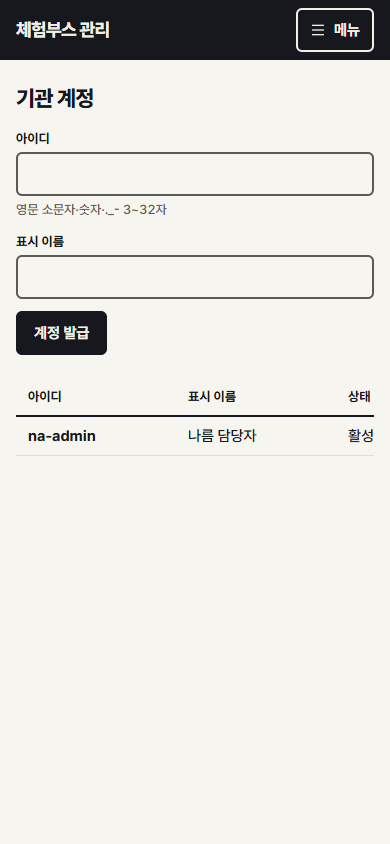
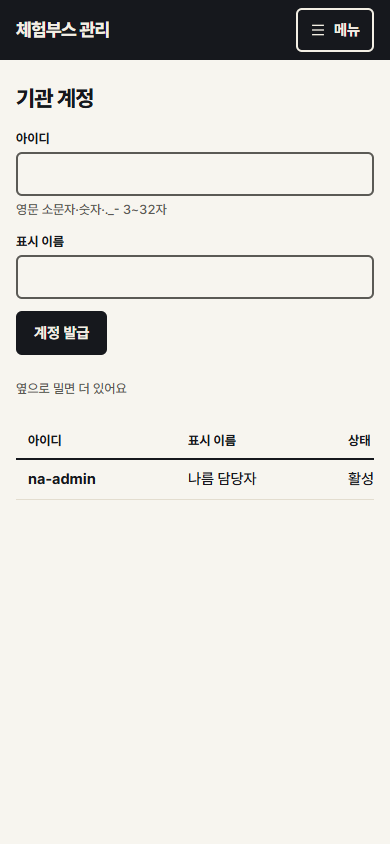
[docs] 2-C 최종 수정 기록: 390px 캡처, 확인 문서, 인계 문서 갱신

Changed region(s): [[0.0308, 0.4313, 0.9538, 0.5853], [0.2462, 0.4313, 0.3077, 0.4929]]

diff --git a/docs/superpowers/handoff/2026-10-30-handoff.md b/docs/superpowers/handoff/2026-10-30-handoff.md
@@ -4,9 +4,9 @@
 
 ## 1. 프로젝트 한눈에
 
-- 상위 폴더 `d:/projects/NR ChildDay/` (git 아님) 아래 두 저장소, 둘 다 **`update` 브랜치**에서 작업하고 GitHub에 push 완료. `main`은 손대지 않음(배포 전까지).
-  - 프론트 `NR_ChildDay2026` → `https://github.com/DJ-WALNUT/NR_ChildDay2026` (HEAD `dfb95d0`)
-  - 백엔드 `NR_ChildDay2026-BE` → `https://github.com/DJ-WALNUT/NR_ChildDay2026-BE` (HEAD `48db3ae`)
+- 상위 폴더 `d:/projects/NR ChildDay/` (git 아님) 아래 두 저장소, 둘 다 **`update` 브랜치**에서 작업한다. 2-C 커밋은 **push 안 됨**(로컬이 `origin/update` 보다 앞서 있음). `main`은 손대지 않음(배포 전까지).
+  - 프론트 `NR_ChildDay2026` → `https://github.com/DJ-WALNUT/NR_ChildDay2026` (HEAD 는 이 문서를 고친 `[docs]` 커밋이고 바로 앞 수정 커밋이 `ea4a378`)
+  - 백엔드 `NR_ChildDay2026-BE` → `https://github.com/DJ-WALNUT/NR_ChildDay2026-BE` (HEAD `45f559f`)
 - 목표: 인증 없이 모든 데이터가 공개되던 체험부스 예약 시스템을 **기관(테넌트)별**로 나누고, 화면을 "현장 입장권" 디자인으로 전부 새로 만든다. 참고 구현은 `d:/projects/walnutphoto`.
 - 단계: **1단계 백엔드 ✅ → 2-A 백엔드 추가분 ✅ → 2-B 방문객·현장 링크 화면 ✅ → 2-C 관리자 화면 ✅(구현·실동작 확인 완료, `docs/verification/2c/README.md`) → 1·2단계 함께 배포 ⏳**(새 API는 기존 프론트와 호환되지 않음).
 
@@ -43,25 +43,25 @@
 - `scripts/migrate_legacy.py`: 로컬 사본 기준 nareum 4/34/1736, gmyouth 1/37/3929, 버림 1/2/4 일치 확인. 36번 부스 시간당 타임 10→6 조정. 5자리 식별번호 11건 그대로 이관.
 - 2-A: 로고 업로드·공개 제공(`/api/public/assets/<sha256>.<ext>`, 1년 캐시, CSP sandbox), 행사 안내 문구, 행사 삭제 시 로고 정리.
 - 개발용 시드: `python scripts/seed_demo.py --out <DATA_DIR>/app.db`.
-- 테스트: `python -m pytest -q` → **194 passed**.
+- 테스트: `python -m pytest -q` → **216 passed**.
 
 ### 2-B 프론트 (`NR_ChildDay2026`)
 - TS 재구성, 디자인 토큰(`src/index.css`, 크기·둥글기 단계 배타적), Pretendard 동적 서브셋(`public/fonts/pretendard.css`), UI 부품(`src/ui/`), API 클라이언트(`src/api/`), 정규화·슬롯·입장권 보관(`src/lib/`), 엑셀(exceljs, 지연 로딩)·QR.
 - 방문객: `/:slug`, `/:slug/reserve/:id`, `/:slug/check/:id`, 기존 QR 리다이렉트, `/`.
 - 현장: `BoothConsole`(부스 링크·운영 단체 부스·**2-C 관리자 부스 상세에서 재사용**: `access="own"|"manage"`, `extraOwnActions`, `BoothSource` 어댑터), `/b/:token`, `/p/:token`, `/p/:token/booths/:id`, `StatsPanel`(2-C 행사 실적 탭에서 재사용).
 - 배포 설정: `public/.htaccess`(SPA 재작성 + Referrer-Policy no-referrer + 캐시), `.env.production`(`VITE_API_BASE=https://child-api.team-cluster.kr`), `scripts/check-chunks.mjs`(방문객 첫 로딩 ≤400KB, 스태프 라이브러리 혼입 금지; 현재 약 353KB).
-- 명령: `npm test`(**184 passed**), `npm run typecheck`, `npm run lint`, `npm run build`.
+- 명령: `npm test`(**413 passed**), `npm run typecheck`, `npm run lint`, `npm run build`.
 
 ### 2-C 관리자 화면 (`NR_ChildDay2026`) — 완료
 - `/manage/*`(지연 로딩): 로그인·비밀번호 변경 강제·세션 만료 복귀(`next`), 대시보드(내 행사 + 참가한 연합 행사), 행사 상세 5개 탭(부스·운영 단체·실적·링크·설정), 부스 상세(`BoothConsole` 재사용, 소유 권한일 때만 이동·배정·재발급·삭제), 내 계정, 기관 계정, 기관 설정(로고), 활동 기록, 슈퍼관리자(기관 CRUD·기관별 계정·전체 활동 기록·백업·접속 IP).
 - 사용자 결정: 슈퍼관리자는 모든 행사에 접속(비활성 기관 행사 포함), 방문객 제한 키를 IP+부스 단위로 변경(5절 2번 해소). 행사·부스 화면의 기관은 응답의 `org` 를 쓴다.
 - 실제 동작·화면 확인(390·1440): 모든 단계 통과, 결함 2건 수정(긴 이름 가로 넘침, 좁은 화면 표 쪼개짐). 휴대폰 카메라 QR 인식만 확인하지 못함.
-- 명령: `npm test`(**383 passed**), `npm run typecheck`, `npm run lint`, `npm run build`(첫 묶음 약 357KB), 백엔드 `python -m pytest -q` → **208 passed**.
+- 명령: `npm test`(**413 passed**), `npm run typecheck`, `npm run lint`, `npm run build`(첫 묶음 약 357KB), 백엔드 `python -m pytest -q` → **216 passed**.
 
 ## 5. 사용자 결정 대기 / 열린 문제
 
 1. **운영 API 주소**: `.env.production`에 기존 `https://child-api.team-cluster.kr`를 넣음 — 사용자 확인 필요.
-2. **방문객 제한**(백엔드, 2-C에서 키를 `reserve:{ip}:{booth_id}`·`lookup:{ip}:{booth_id}` 로 바꿔 해소. 기본 횟수는 그대로이고 `VISITOR_*`·`LINK_MISS_*` 환경변수로 조정. 아래는 변경 전 기록): 신청 1분 30회, 조회·취소 15분 20회, 잘못된 링크 15분 30회. 행사장 와이파이/통신사 공유 IP에서 오픈 직후 걸릴 위험 → 늘릴지, IP+부스 단위로 바꿀지 결정 필요. 미결정이면 현재 값 유지하고 진행하기로 함.
+2. **방문객 제한**(결정 완료): IP+부스 단위로 센다(`reserve:{ip}:{booth_id}`, `lookup:{ip}:{booth_id}`, 잘못된 링크만 IP 단위). 환경변수와 기본값은 `VISITOR_RESERVE_LIMIT=30`/`VISITOR_RESERVE_WINDOW=60`, `VISITOR_LOOKUP_LIMIT=20`/`VISITOR_LOOKUP_WINDOW=900`, `LINK_MISS_LIMIT=30`/`LINK_MISS_WINDOW=900`. `*_WINDOW`는 86400 이하로 쓴다.
 3. **배포 서버**: 새 `.htaccess`는 Apache 2.4 이상 필요. 깊은 주소의 index.html이 no-cache로 나가는지 실제 서버에서 확인 필요. 백엔드 `TRUSTED_PROXY_HOPS`는 전환 후 `whoami-ip`로 확인(README 절차).
 4. **부스 링크 노출 정책**: 연결 기관·실적 링크 사용자도 부스 관리 링크(QR)를 볼 수 있음 → 연결 해제해도 재발급 전까지 유효. 사용자가 원하면 소유 기관만 보이게 변경 가능.
 5. **휴대폰 카메라 QR 인식**은 미확인(프로그램 디코딩만 확인).

diff --git a/docs/verification/2c/README.md b/docs/verification/2c/README.md
@@ -29,7 +29,7 @@
 | 항목 | 결과 | 비고 |
 |------|------|------|
 | 390px 가로 스크롤 없음(긴 이름 포함) | 통과 (수정 2건) | 관리자 18개 화면 + 로그인을 `scrollWidth <= clientWidth` 로 확인. 40자 넘는 부스 이름(공백 없음)·행사 이름 포함. D1, D2 수정 후 모두 통과 |
-| 표가 좁은 화면에서 읽히는가 | 통과 (수정 1건) | 칸이 한 글자씩 쪼개져 읽을 수 없었음(D2). 수정 후 긴 값 칸만 줄바꿈, 나머지는 표 영역 안에서 가로 스크롤(키보드 초점 가능) |
+| 표가 좁은 화면에서 읽히는가 | 통과 (수정 2건) | 칸이 한 글자씩 쪼개져 읽을 수 없었음(D2). 긴 값 칸만 줄바꿈하고 나머지는 표 영역 안에서 가로 스크롤(키보드 초점 가능). 뒤쪽 칸이 화면 밖이라 부스로 들어가는 길이 보이지 않던 문제는 최종 검토에서 고쳤음(D3): 부스 이름을 링크로, 연합 행사 표는 부스를 첫 칸으로 옮김. 390px 에서 부스 표 링크 x=118~229, 연합 행사 표 링크 x=28~109, 내 행사 표 링크 x=28~175 로 스크롤 없이 보임(`m-10`, `m-04`). 방식·신청 수·상태와 계정·기관·단체 표의 뒤쪽 동작은 여전히 밀어야 보이고, 표 위 안내 "옆으로 밀면 더 있어요"로 알림(`m-10`, `m-06b`) |
 | 토큰 색·둥글기·도장·이모지 없음 | 통과(육안) | 주요 캡처를 눈으로 확인. 색만 다른 통계 카드 없음, 숫자 요약은 한 줄 |
 | 관리자 재료(잉크 사이드바, `paper-2` 본문, 선택 탭 노랑 밑줄) | 통과 | 1440 은 사이드바, 390 은 상단 막대 + 접히는 메뉴(`m-40-menu-open`) |
 
@@ -39,13 +39,15 @@
 |----|------|------|------|
 | D1 | 행사 실적 탭의 부스 선택 목록에서 공백 없는 긴 이름이 390px 에서 페이지 가로 스크롤을 만듦(`fieldset` 기본 min-width 와 flex 줄의 이름 칸) | `fieldset` 에 `min-w-0`, 이름을 `min-w-0 break-words` span 에 담음 (테스트: `tests/partner.test.tsx`) | `[fix] 실적 부스 선택 목록의 긴 이름이 390px 가로 스크롤을 만들던 문제` |
 | D2 | 좁은 화면에서 표 칸이 한 글자씩 세로로 쪼개짐(이름·방식·주소), 계정 표의 sr-only 머리글이 스크롤 영역 밖으로 새어 페이지가 넓어짐 | `DataTable` 기본 줄바꿈 없음 + `wrap` 칸(이름·문장·링크)만 `min-w-40` 줄바꿈, 표 영역 `relative` (테스트: `tests/ui.test.tsx`) | `[fix] 좁은 화면 표의 글자 쪼개짐과 sr-only 머리글로 인한 가로 넘침` |
+| D3 | 390px 에서 부스 표의 상세 링크와 연합 행사 표의 부스 링크가 화면 밖에 있고, 표 뒤쪽 동작이 있다는 표시가 없음 | 위 표 항목 참고 (테스트: `tests/manage-event.test.tsx`, `tests/ui.test.tsx`) | `[fix] 2-C 최종 검토: 재조회 실패 유지, 390px 부스 진입, 내려받기 최신화 외` |
 
 ## 전체 확인
 
-프론트 `npm test`(383 통과), `npm run typecheck`, `npm run lint`, `npm run build`(`check-chunks` 357466 바이트 < 400000, 통과) 모두 통과. 백엔드 `python -m pytest -q` 208 통과.
+프론트 `npm test`(413 통과), `npm run typecheck`, `npm run lint`, `npm run build`(`check-chunks` 357642 바이트 < 400000, 통과) 모두 통과. 백엔드 `python -m pytest -q` 216 통과.
 
 ## 참고
 
+- 최종 검토 수정 뒤 390px 로 다시 찍은 캡처는 `m-10-event-booths`, `m-06b-members`, 새로 찍은 연결 기관 대시보드 `m-04-dashboard-linked` 세 장이에요. 이때 `scrollWidth <= clientWidth` 는 대시보드(내 행사·연합 행사), 부스 탭, 운영 단체 탭, 기관 계정, 슈퍼관리자 기관 목록에서 다시 확인했고 모두 390 이었어요. 나머지 `m-` 캡처는 수정 전 화면이에요. 그래서 `m-11-event-partners`, `m-30-super-orgs`, `m-31-super-org-members` 에는 표 위 안내가 없어요.
 - 흐름 중간에 찍은 캡처(`d-02-password-forced`, `d-03`, `d-04`, `d-31-super-members-temp-password` 등)는 표 수정 전 화면이에요. 표가 있는 화면 캡처는 수정 뒤 다시 찍은 것이에요.
 - 계정 발급 첫 시도는 스크립트 선택자 충돌로 중간에 멈춘 뒤 이어서 확인했어요(발급 자체는 화면에서 이루어졌고, 이후 초기화로 임시 비밀번호 복사를 확인).
 - 개발 서버가 보는 IP 는 127.0.0.1 이라 `TRUSTED_PROXY_HOPS=0` 이에요. 운영의 `whoami-ip` 확인은 전환 후 해야 해요.
